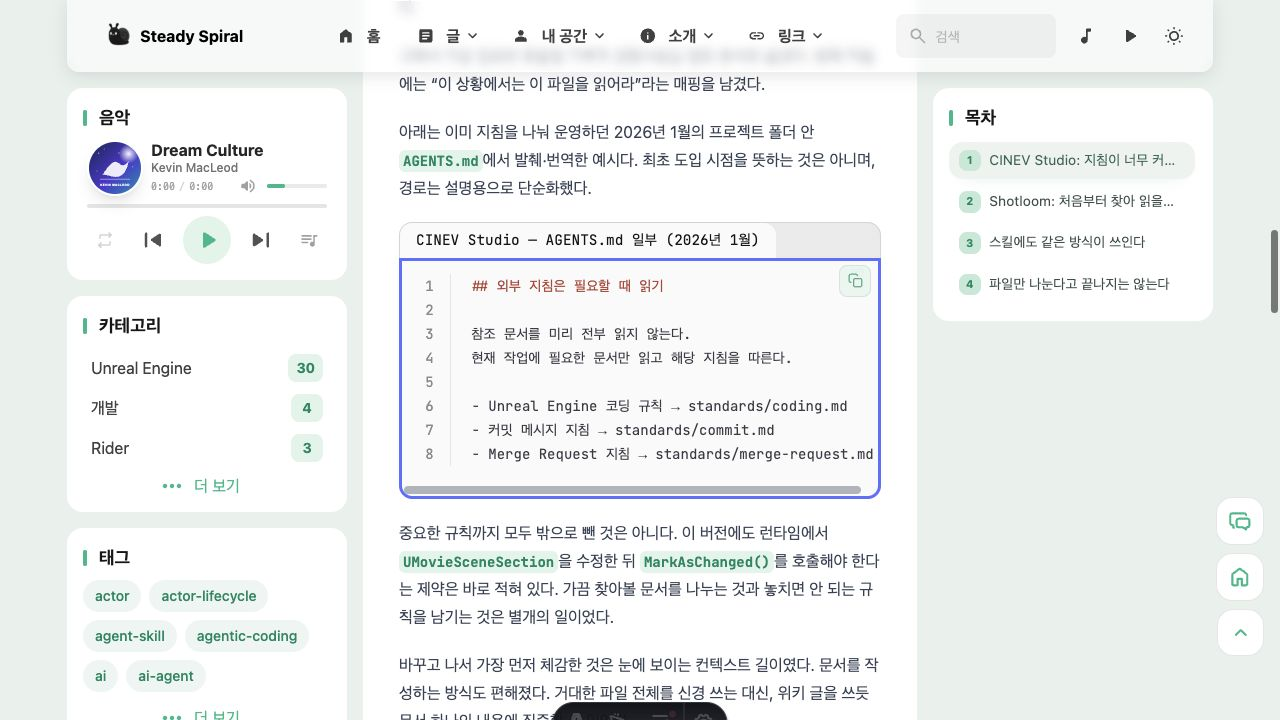
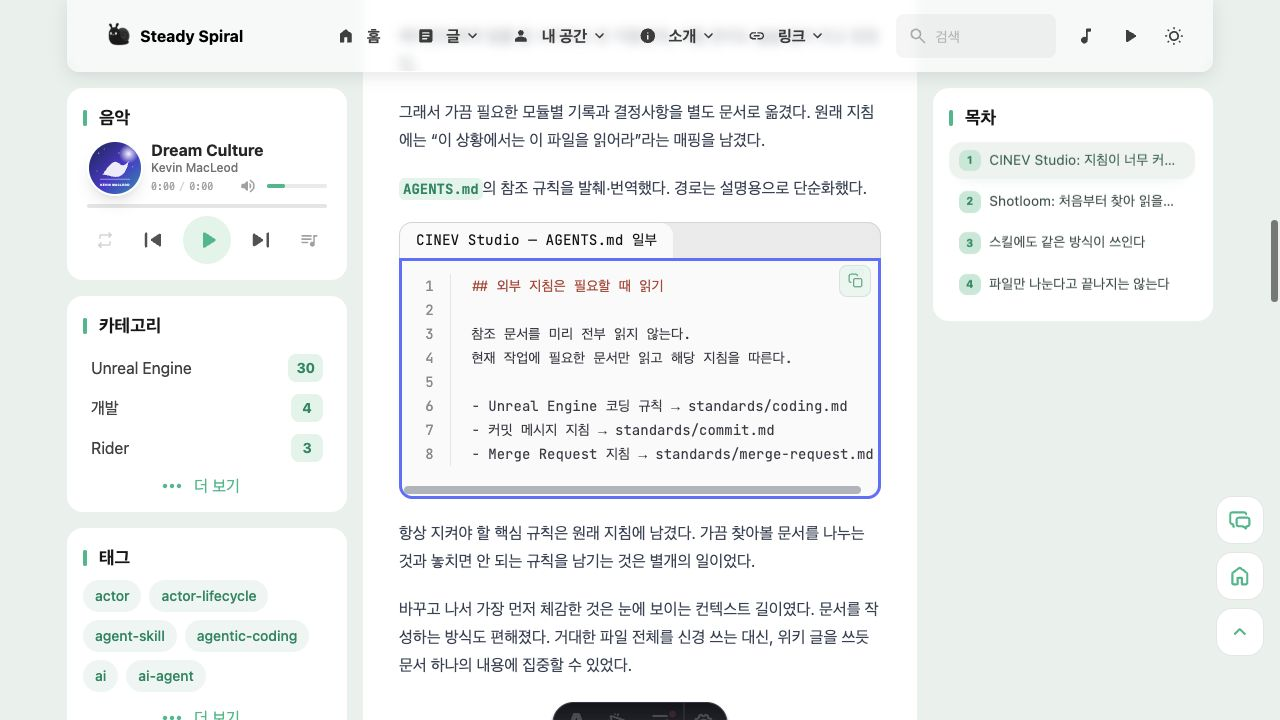
docs: refine progressive disclosure project comparison (#80)
## Summary

점진적 노출 글의 불필요한 부연을 줄이고, CINEV Studio에서 지침을 분리한 경험이 Shotloom의 기록·탐색 체계로
발전한 점을 명확히 합니다.

## Changes

- AGENTS.md 예시의 날짜·초기 버전 표기, 시점에 관한 해명과 반복되는 프로젝트 소개를 줄였습니다.
- CINEV Studio의 지침 분리와 Shotloom의 기록 위치·갱신 기준·재탐색 경로 설계를 구분해 설명했습니다.
- Shotloom 예시를 `AGENTS.md → MAP.md → 상세 문서`로 이어지는 실제 안내의 발췌·번역으로 바꿨습니다.
- Spec·ADR·TechDebt의 역할, 필수 지침과 선택적 참조의 구분, 기존 유머와 발행 상태는 유지했습니다.
- 두 프로젝트 예시의 확인용 스크린샷을 갱신했습니다.

## Validation

- `pnpm check` — 통과 (0 errors, 0 warnings, 0 hints)
- `pnpm type-check` — 통과
- `pnpm build` — 통과
- `git diff --check` — 통과
- 빌드 결과에서 비교 설명과 새 예시 제목이 포함되고, 삭제한 시기 표기가 없는지 확인했습니다.
- Shotloom의 `AGENTS.md`, `MAP.md`, 문서 작성 기준 원문과 예시·설명을 대조했습니다.
- 로컬 브라우저에서 두 예시의 캡션·코드 표시를 확인했습니다. 긴 경로는 코드 블록 안에서 가로 스크롤됩니다.
- 기존 빌드 경고(`src/icons` 부재, 큰 청크, 비활성 페이지의 Pagefind HTML 경고, npm 설정 경고)는
유지됩니다.

## Screenshots

### CINEV Studio

![CINEV Studio 지침 분리
예시](https://raw.githubusercontent.com/hon454/hon454.github.io/codex/progressive-disclosure-refinement/docs/images/progressive-disclosure-cinev-example.png)

### Shotloom

![Shotloom 문서 탐색
예시](https://raw.githubusercontent.com/hon454/hon454.github.io/codex/progressive-disclosure-refinement/docs/images/progressive-disclosure-shotloom-example.png)

diff --git a/src/content/posts/progressive-disclosure-ai-agent.md b/src/content/posts/progressive-disclosure-ai-agent.md
@@ -41,9 +41,9 @@ CINEV Studio에 처음 `AGENTS.md`나 `CLAUDE.md` 같은 지침 파일을 적용
 
 그래서 가끔 필요한 모듈별 기록과 결정사항을 별도 문서로 옮겼다. 원래 지침에는 “이 상황에서는 이 파일을 읽어라”라는 매핑을 남겼다.
 
-아래는 이미 지침을 나눠 운영하던 2026년 1월의 프로젝트 폴더 안 `AGENTS.md`에서 발췌·번역한 예시다. 최초 도입 시점을 뜻하는 것은 아니며, 경로는 설명용으로 단순화했다.
+`AGENTS.md`의 참조 규칙을 발췌·번역했다. 경로는 설명용으로 단순화했다.
 
-```md title="CINEV Studio — AGENTS.md 일부 (2026년 1월)"
+```md title="CINEV Studio — AGENTS.md 일부"
 ## 외부 지침은 필요할 때 읽기
 
 참조 문서를 미리 전부 읽지 않는다.
@@ -54,39 +54,39 @@ CINEV Studio에 처음 `AGENTS.md`나 `CLAUDE.md` 같은 지침 파일을 적용
 - Merge Request 지침 → standards/merge-request.md
 ```
 
-중요한 규칙까지 모두 밖으로 뺀 것은 아니다. 이 버전에도 런타임에서 `UMovieSceneSection`을 수정한 뒤 `MarkAsChanged()`를 호출해야 한다는 제약은 바로 적혀 있다. 가끔 찾아볼 문서를 나누는 것과 놓치면 안 되는 규칙을 남기는 것은 별개의 일이었다.
+항상 지켜야 할 핵심 규칙은 원래 지침에 남겼다. 가끔 찾아볼 문서를 나누는 것과 놓치면 안 되는 규칙을 남기는 것은 별개의 일이었다.
 
 바꾸고 나서 가장 먼저 체감한 것은 눈에 보이는 컨텍스트 길이였다. 문서를 작성하는 방식도 편해졌다. 거대한 파일 전체를 신경 쓰는 대신, 위키 글을 쓰듯 문서 하나의 내용에 집중할 수 있었다.
 
 ## Shotloom: 처음부터 찾아 읽을 수 있게
 
-이후 같은 회사에서 CINEV Studio의 후속 프로젝트인 Shotloom 개발에 참여했다. Shotloom은 브라우저에서 장면과 샷을 편집하는 도구다.
+CINEV Studio의 후속 프로젝트인 Shotloom은 브라우저에서 장면과 샷을 편집하는 도구다.
 
-이 프로젝트는 시작부터 AI 에이전트와 코딩할 것을 전제로 구조를 잡았다. 지침을 나중에 분리하는 것에서 한발 더 나아가, 장기적으로 유지하는 프로젝트 문서를 마련했다. 작업이 끝나도 필요한 지식과 결정 근거를 남겨 다시 참조할 수 있게 했다.
+이 프로젝트는 시작부터 AI 에이전트와 코딩할 것을 전제로 구조를 잡았다. CINEV Studio에서 커진 지침을 나누는 데 집중했다면, Shotloom에서는 무엇을 어디에 기록하고 어떻게 다시 찾을지까지 정했다.
+
+장기적으로 유지하는 프로젝트 문서도 역할을 나눴다. 작업이 끝나도 필요한 지식과 결정 근거를 남겨 다시 참조할 수 있게 했다.
 
 - Spec에는 어떤 동작을 기대하는지 남긴다.
 - ADR에는 무엇을 결정했고 왜 그렇게 결정했는지 남긴다.
 - TechDebt에는 알고도 남겨둔 구조적 문제와 정리할 조건을 남긴다.
 
-`AGENTS.md`는 공통 규칙과 진입점을 안내하고 `MAP.md`는 질문을 해당 문서에 연결한다. 공통으로 읽어야 할 문서도 있으므로, 파일이 분리되어 있다는 이유만으로 모두 선택 사항은 아니다.
+`AGENTS.md`는 공통 규칙과 진입점을 안내하고 `MAP.md`는 질문을 해당 문서에 연결한다. 문서 작성 지침에는 기록을 남길 위치와 코드 변경에 맞춰 문서를 갱신하는 기준을 정했다. 공통으로 읽어야 할 문서도 있으므로, 파일이 분리되어 있다는 이유만으로 모두 선택 사항은 아니다.
 
-2026년 3월 초기 커밋의 `AGENTS.md`에도 문서 구조와 탐색 경로가 들어 있다. 문서 관련 부분만 발췌·번역하면 다음과 같다.
+두 파일에서 문서를 찾아가는 부분을 발췌·번역하면 다음과 같다.
 
-```md title="Shotloom — 초기 AGENTS.md 일부 (2026년 3월)"
-## 문서 구조
-
-docs/
-  specs/      # 제품 요구사항과 기술 스펙
-  adr/        # 설계 결정 기록
-  tech-debt/  # 기술 부채 기록
-
-## 주요 링크
+```md title="Shotloom — AGENTS.md → MAP.md"
+# AGENTS.md
 
 - 문서 탐색 인덱스 → MAP.md
 - 기여·커밋 규칙 → CONTRIBUTING.md
-```
 
-두 예시는 각 프로젝트의 해당 시기를 보여준다. 지금의 CINEV Studio에도 ADR과 기술 부채 문서 체계가 있으므로, 현재 어느 쪽이 더 잘 갖춰졌는지를 비교하려는 것은 아니다.
+# MAP.md
+
+- 제품 스펙은 어디에 있나? → docs/specs/
+- 설계 결정 기록은 어디에 있나? → docs/adr/
+- 기술 부채 기록은 어디에 있나? → docs/tech-debt/
+- 문서 작성 기준은 어디에 있나? → docs/guidelines/documentation-standard.md
+```
 
 이 구조는 에이전트뿐 아니라 나에게도 도움이 됐다. 다른 스펙을 쓰거나 이전 결정의 근거가 필요할 때, 기억을 더듬는 대신 기록을 다시 확인할 수 있었다. 평소에는 그 내용을 전부 기억하고 있을 필요가 없었다.
 
